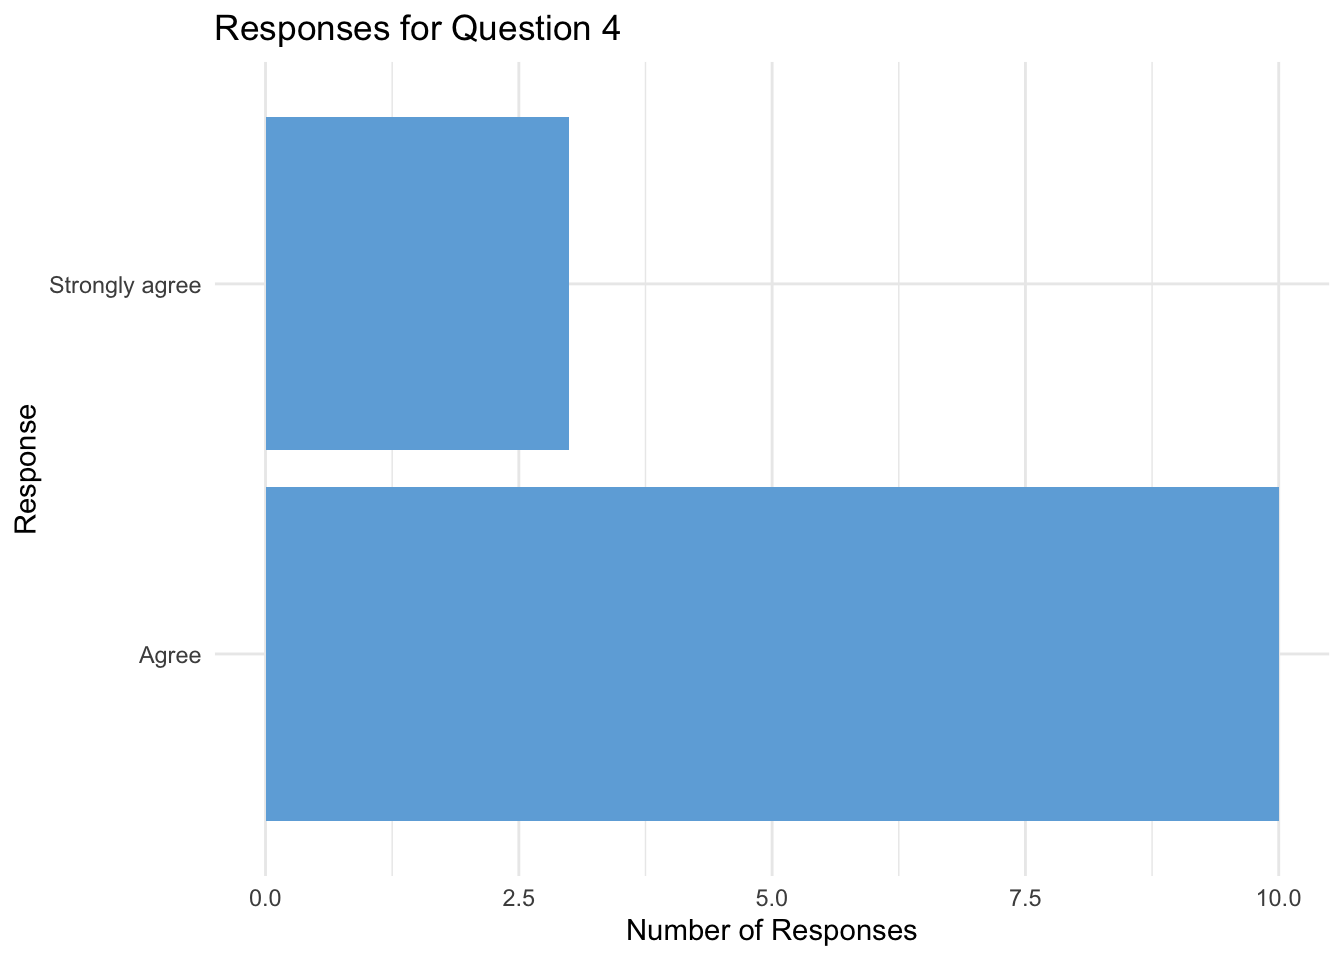
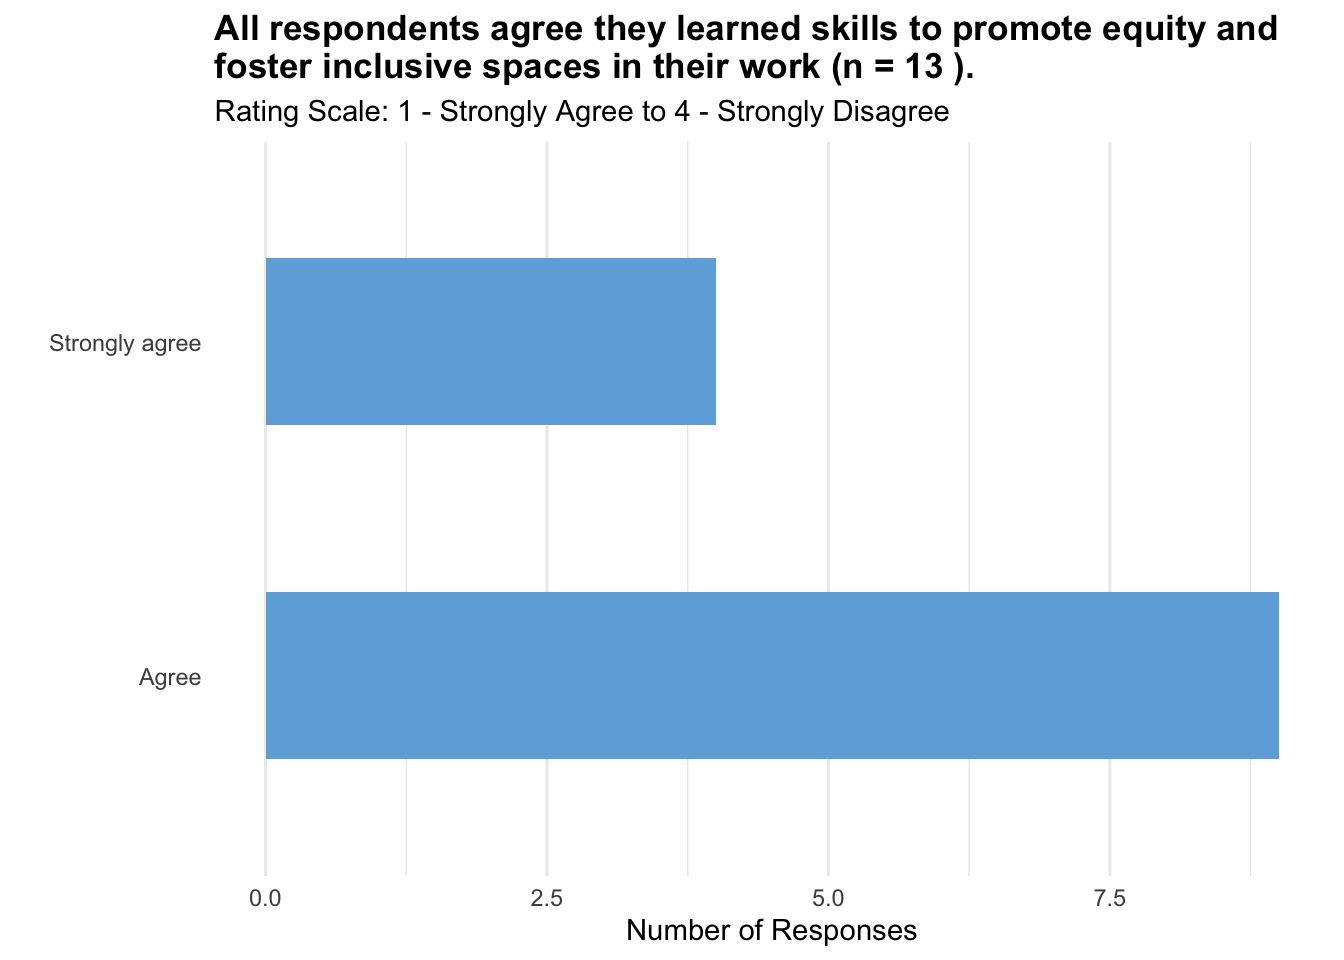
q5_post-test

diff --git a/Cohort 3 Analysis.html b/Cohort 3 Analysis.html
@@ -219,6 +219,80 @@ pre > code.sourceCode > span > a:first-child::before { text-decoration: underlin
 </section>
 <section id="q5.-i-learned-skills-to-promote-equity-and-foster-inclusive-spaces-in-my-work." class="level3">
 <h3 class="anchored" data-anchor-id="q5.-i-learned-skills-to-promote-equity-and-foster-inclusive-spaces-in-my-work.">Q5. I learned skills to promote equity and foster inclusive spaces in my work.</h3>
+<div class="cell">
+<details>
+<summary>Code</summary>
+<div class="sourceCode cell-code" id="cb3"><pre class="sourceCode r code-with-copy"><code class="sourceCode r"><span id="cb3-1"><a href="#cb3-1" aria-hidden="true" tabindex="-1"></a><span class="co"># Analyzing and visualizing the "q5" column</span></span>
+<span id="cb3-2"><a href="#cb3-2" aria-hidden="true" tabindex="-1"></a>q5_summary_df <span class="ot">&lt;-</span> cohort3FinalGov <span class="sc">%&gt;%</span></span>
+<span id="cb3-3"><a href="#cb3-3" aria-hidden="true" tabindex="-1"></a>  <span class="fu">group_by</span>(q5) <span class="sc">%&gt;%</span></span>
+<span id="cb3-4"><a href="#cb3-4" aria-hidden="true" tabindex="-1"></a>  <span class="fu">summarise</span>(<span class="at">Frequency =</span> <span class="fu">n</span>())</span>
+<span id="cb3-5"><a href="#cb3-5" aria-hidden="true" tabindex="-1"></a></span>
+<span id="cb3-6"><a href="#cb3-6" aria-hidden="true" tabindex="-1"></a><span class="co"># Calculate total number of responses</span></span>
+<span id="cb3-7"><a href="#cb3-7" aria-hidden="true" tabindex="-1"></a>total_responses <span class="ot">&lt;-</span> <span class="fu">sum</span>(q5_summary_df<span class="sc">$</span>Frequency)</span>
+<span id="cb3-8"><a href="#cb3-8" aria-hidden="true" tabindex="-1"></a></span>
+<span id="cb3-9"><a href="#cb3-9" aria-hidden="true" tabindex="-1"></a><span class="co"># Plotting the data</span></span>
+<span id="cb3-10"><a href="#cb3-10" aria-hidden="true" tabindex="-1"></a><span class="fu">ggplot</span>(q5_summary_df, <span class="fu">aes</span>(<span class="at">x =</span> q5, <span class="at">y =</span> Frequency)) <span class="sc">+</span></span>
+<span id="cb3-11"><a href="#cb3-11" aria-hidden="true" tabindex="-1"></a>  <span class="fu">geom_bar</span>(<span class="at">stat =</span> <span class="st">"identity"</span>, <span class="at">fill =</span> <span class="st">"#6eaddc"</span>, <span class="at">width =</span> <span class="fl">0.5</span>) <span class="sc">+</span></span>
+<span id="cb3-12"><a href="#cb3-12" aria-hidden="true" tabindex="-1"></a>  <span class="fu">coord_flip</span>() <span class="sc">+</span></span>
+<span id="cb3-13"><a href="#cb3-13" aria-hidden="true" tabindex="-1"></a>  <span class="fu">labs</span>(<span class="at">title =</span> <span class="fu">paste</span>(<span class="st">"All respondents agree they learned skills to promote equity and </span></span>
+<span id="cb3-14"><a href="#cb3-14" aria-hidden="true" tabindex="-1"></a><span class="st">foster inclusive spaces in their work (n ="</span>, total_responses, <span class="st">")."</span>),</span>
+<span id="cb3-15"><a href="#cb3-15" aria-hidden="true" tabindex="-1"></a>       <span class="at">subtitle =</span> <span class="st">"Rating Scale: 1 - Strongly Agree to 4 - Strongly Disagree"</span>,</span>
+<span id="cb3-16"><a href="#cb3-16" aria-hidden="true" tabindex="-1"></a>       <span class="at">x =</span> <span class="st">""</span>,</span>
+<span id="cb3-17"><a href="#cb3-17" aria-hidden="true" tabindex="-1"></a>       <span class="at">y =</span> <span class="st">"Number of Responses"</span>) <span class="sc">+</span></span>
+<span id="cb3-18"><a href="#cb3-18" aria-hidden="true" tabindex="-1"></a>  <span class="fu">theme_minimal</span>() <span class="sc">+</span></span>
+<span id="cb3-19"><a href="#cb3-19" aria-hidden="true" tabindex="-1"></a>  <span class="fu">theme</span>(<span class="at">panel.grid.major.y =</span> <span class="fu">element_blank</span>(),  </span>
+<span id="cb3-20"><a href="#cb3-20" aria-hidden="true" tabindex="-1"></a>        <span class="at">panel.grid.minor.y =</span> <span class="fu">element_blank</span>(),</span>
+<span id="cb3-21"><a href="#cb3-21" aria-hidden="true" tabindex="-1"></a>        <span class="at">plot.title =</span> <span class="fu">element_text</span>(<span class="at">face =</span> <span class="st">"bold"</span>))</span></code><button title="Copy to Clipboard" class="code-copy-button"><i class="bi"></i></button></pre></div>
+</details>
+<div class="cell-output-display">
+<p><img src="Cohort-3-Analysis_files/figure-html/unnamed-chunk-3-1.png" class="img-fluid" width="672"></p>
+</div>
+</div>
+<div class="cell">
+<details>
+<summary>Code</summary>
+<div class="sourceCode cell-code" id="cb4"><pre class="sourceCode r code-with-copy"><code class="sourceCode r"><span id="cb4-1"><a href="#cb4-1" aria-hidden="true" tabindex="-1"></a><span class="co"># Load necessary libraries</span></span>
+<span id="cb4-2"><a href="#cb4-2" aria-hidden="true" tabindex="-1"></a><span class="fu">library</span>(ggplot2)</span>
+<span id="cb4-3"><a href="#cb4-3" aria-hidden="true" tabindex="-1"></a><span class="fu">library</span>(dplyr)</span>
+<span id="cb4-4"><a href="#cb4-4" aria-hidden="true" tabindex="-1"></a></span>
+<span id="cb4-5"><a href="#cb4-5" aria-hidden="true" tabindex="-1"></a><span class="co"># Create a summary dataframe for q5</span></span>
+<span id="cb4-6"><a href="#cb4-6" aria-hidden="true" tabindex="-1"></a>q5_summary_df <span class="ot">&lt;-</span> cohort3FinalGov <span class="sc">%&gt;%</span></span>
+<span id="cb4-7"><a href="#cb4-7" aria-hidden="true" tabindex="-1"></a>  <span class="fu">group_by</span>(q5) <span class="sc">%&gt;%</span></span>
+<span id="cb4-8"><a href="#cb4-8" aria-hidden="true" tabindex="-1"></a>  <span class="fu">summarise</span>(<span class="at">Frequency =</span> <span class="fu">n</span>())</span>
+<span id="cb4-9"><a href="#cb4-9" aria-hidden="true" tabindex="-1"></a></span>
+<span id="cb4-10"><a href="#cb4-10" aria-hidden="true" tabindex="-1"></a><span class="co"># Calculate total number of responses</span></span>
+<span id="cb4-11"><a href="#cb4-11" aria-hidden="true" tabindex="-1"></a>total_responses <span class="ot">&lt;-</span> <span class="fu">sum</span>(q5_summary_df<span class="sc">$</span>Frequency)</span>
+<span id="cb4-12"><a href="#cb4-12" aria-hidden="true" tabindex="-1"></a></span>
+<span id="cb4-13"><a href="#cb4-13" aria-hidden="true" tabindex="-1"></a><span class="co"># Create a boxplot</span></span>
+<span id="cb4-14"><a href="#cb4-14" aria-hidden="true" tabindex="-1"></a><span class="fu">ggplot</span>(q5_summary_df, <span class="fu">aes</span>(<span class="at">x =</span> <span class="st">""</span>, <span class="at">y =</span> Frequency)) <span class="sc">+</span></span>
+<span id="cb4-15"><a href="#cb4-15" aria-hidden="true" tabindex="-1"></a>  <span class="fu">geom_boxplot</span>(<span class="at">fill =</span> <span class="st">"#6eaddc"</span>) <span class="sc">+</span></span>
+<span id="cb4-16"><a href="#cb4-16" aria-hidden="true" tabindex="-1"></a>  <span class="fu">labs</span>(<span class="at">title =</span> <span class="fu">paste</span>(<span class="st">"Summary of Responses for"</span>,</span>
+<span id="cb4-17"><a href="#cb4-17" aria-hidden="true" tabindex="-1"></a>                     <span class="st">"Learning Skills to Promote Equity and Foster Inclusive Spaces (n ="</span>, total_responses, <span class="st">")."</span>),</span>
+<span id="cb4-18"><a href="#cb4-18" aria-hidden="true" tabindex="-1"></a>       <span class="at">subtitle =</span> <span class="st">"Rating Scale: 1 - Strongly Agree to 4 - Strongly Disagree"</span>,</span>
+<span id="cb4-19"><a href="#cb4-19" aria-hidden="true" tabindex="-1"></a>       <span class="at">x =</span> <span class="st">""</span>,</span>
+<span id="cb4-20"><a href="#cb4-20" aria-hidden="true" tabindex="-1"></a>       <span class="at">y =</span> <span class="st">"Number of Responses"</span>) <span class="sc">+</span></span>
+<span id="cb4-21"><a href="#cb4-21" aria-hidden="true" tabindex="-1"></a>  <span class="fu">theme_minimal</span>() <span class="sc">+</span></span>
+<span id="cb4-22"><a href="#cb4-22" aria-hidden="true" tabindex="-1"></a>  <span class="fu">theme</span>(<span class="at">panel.grid.major.y =</span> <span class="fu">element_blank</span>(),</span>
+<span id="cb4-23"><a href="#cb4-23" aria-hidden="true" tabindex="-1"></a>        <span class="at">panel.grid.minor.y =</span> <span class="fu">element_blank</span>(),</span>
+<span id="cb4-24"><a href="#cb4-24" aria-hidden="true" tabindex="-1"></a>        <span class="at">plot.title =</span> <span class="fu">element_text</span>(<span class="at">face =</span> <span class="st">"bold"</span>))</span></code><button title="Copy to Clipboard" class="code-copy-button"><i class="bi"></i></button></pre></div>
+</details>
+<div class="cell-output-display">
+<p><img src="Cohort-3-Analysis_files/figure-html/unnamed-chunk-4-1.png" class="img-fluid" width="672"></p>
+</div>
+<details>
+<summary>Code</summary>
+<div class="sourceCode cell-code" id="cb5"><pre class="sourceCode r code-with-copy"><code class="sourceCode r"><span id="cb5-1"><a href="#cb5-1" aria-hidden="true" tabindex="-1"></a><span class="fu">summary</span>(q5_summary_df)</span></code><button title="Copy to Clipboard" class="code-copy-button"><i class="bi"></i></button></pre></div>
+</details>
+<div class="cell-output cell-output-stdout">
+<pre><code>      q5              Frequency   
+ Length:2           Min.   :4.00  
+ Class :character   1st Qu.:5.25  
+ Mode  :character   Median :6.50  
+                    Mean   :6.50  
+                    3rd Qu.:7.75  
+                    Max.   :9.00  </code></pre>
+</div>
+</div>
 </section>
 <section id="q6.-i-learned-new-skills-in-applying-user-testing-feedback-to-shape-the-development-of-our-solution." class="level3">
 <h3 class="anchored" data-anchor-id="q6.-i-learned-new-skills-in-applying-user-testing-feedback-to-shape-the-development-of-our-solution.">Q6. I learned new skills in applying user testing feedback to shape the development of our solution.</h3>
